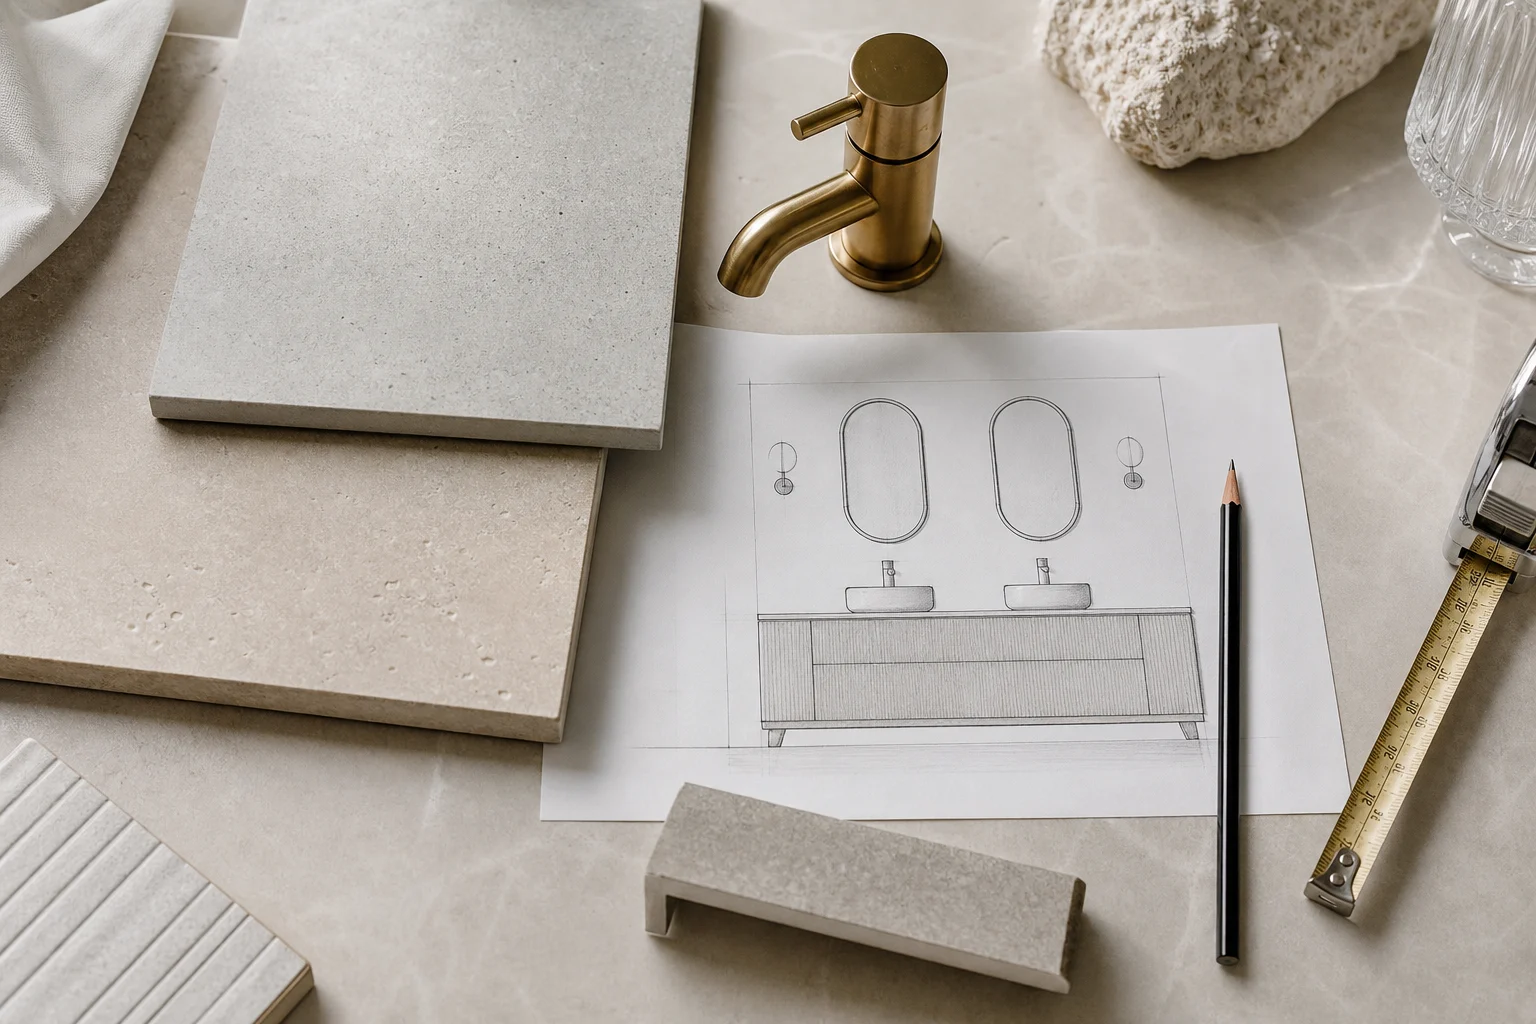
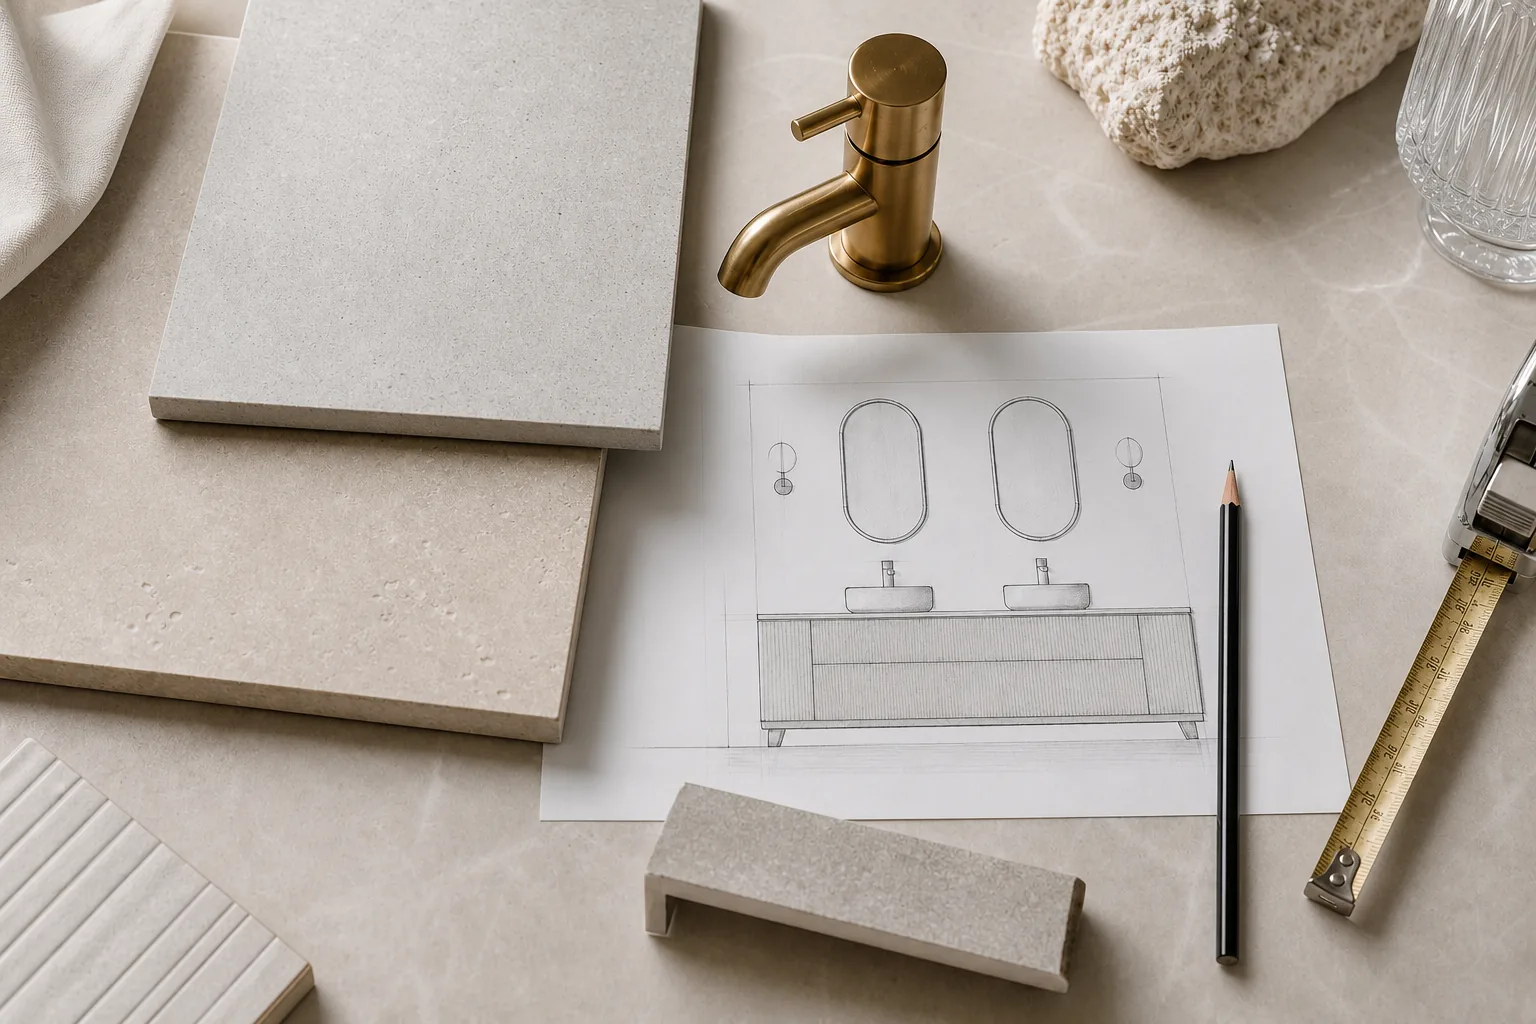
Update service page imagery

diff --git a/large-format-tiling-london/index.html b/large-format-tiling-london/index.html
@@ -207,7 +207,7 @@
     <main id="top">
       <section class="service-hero service-hero--tiling">
         <figure class="service-hero__bg">
-          <img src="../assets/images/services/large-format/large-format-marble-vanity-wall.webp" alt="Large format porcelain wall and vanity surface installation by Artiling Studio" loading="eager" width="1200" height="1600" decoding="async" fetchpriority="high" />
+          <img src="../assets/images/services/large-format/large-format-porcelain-surfaces-hero.webp" alt="Large format porcelain wall and vanity surface installation by Artiling Studio" loading="eager" width="1610" height="977" decoding="async" fetchpriority="high" />
         </figure>
         <div class="container service-hero__grid">
           <div class="service-hero__copy" data-reveal>
@@ -256,15 +256,15 @@
           <div class="section-rule" data-reveal><span>Real Surface Work</span></div>
           <div class="sinks__strip" data-reveal>
             <figure>
-              <img class="sinks__strip-photo" src="../assets/images/services/large-format/large-format-marble-vanity-wall.webp" alt="Large-format marble-effect porcelain vanity wall with matching fabricated sink" width="1200" height="1600" loading="lazy" decoding="async" />
+              <img class="sinks__strip-photo" src="../assets/images/services/large-format/large-format-marble-vanity-wall-gallery.webp" alt="Large-format marble-effect porcelain vanity wall with matching fabricated sink" width="1086" height="1448" loading="lazy" decoding="async" />
               <figcaption>Vanity Walls</figcaption>
             </figure>
             <figure>
-              <img class="sinks__strip-photo" src="../assets/images/services/large-format/large-format-grey-wet-room-detail.webp" alt="Grey large-format porcelain wet room wall with precise cuts around wall-mounted brassware" width="1200" height="1600" loading="lazy" decoding="async" />
+              <img class="sinks__strip-photo" src="../assets/images/services/large-format/large-format-grey-wet-room-planes.webp" alt="Grey large-format porcelain wet room wall with precise cuts around wall-mounted brassware" width="1086" height="1448" loading="lazy" decoding="async" />
               <figcaption>Wet Room Planes</figcaption>
             </figure>
             <figure>
-              <img class="sinks__strip-photo" src="../assets/images/services/large-format/large-format-floating-marble-wall.webp" alt="Large-format marble-effect porcelain bathroom wall with floating sink and brass taps" width="1200" height="1600" loading="lazy" decoding="async" />
+              <img class="sinks__strip-photo" src="../assets/images/services/large-format/large-format-marble-feature-surface.webp" alt="Large-format marble-effect porcelain bathroom wall with floating sink and brass taps" width="1086" height="1448" loading="lazy" decoding="async" />
               <figcaption>Feature Surfaces</figcaption>
             </figure>
           </div>
@@ -337,7 +337,7 @@
           <ul class="service-editorial-grid service-editorial-grid--compact">
             <li class="service-editorial-card" data-reveal>
               <figure class="service-editorial-card__media">
-                <img src="../assets/images/services/large-format/large-format-marble-vanity-wall.webp" alt="Large-format porcelain bathroom wall and vanity surface" loading="lazy" width="1200" height="1600" decoding="async" />
+                <img src="../assets/images/services/large-format/large-format-marble-bathroom-walls-floors.webp" alt="Large-format porcelain bathroom wall and vanity surface" loading="lazy" width="1086" height="1448" decoding="async" />
               </figure>
               <span class="service-card__num">01</span>
               <h2>Bathroom walls and floors</h2>
@@ -345,7 +345,7 @@
             </li>
             <li class="service-editorial-card" data-reveal data-reveal-delay="70">
               <figure class="service-editorial-card__media">
-                <img src="../assets/images/services/large-format/large-format-grey-wet-room-detail.webp" alt="Large-format porcelain wet room surface with precise wall cuts" loading="lazy" width="1200" height="1600" decoding="async" />
+                <img src="../assets/images/services/large-format/large-format-grey-wet-room-detail-clean.webp" alt="Large-format porcelain wet room surface with precise wall cuts" loading="lazy" width="1086" height="1448" decoding="async" />
               </figure>
               <span class="service-card__num">02</span>
               <h2>Wet room surfaces</h2>
@@ -353,7 +353,7 @@
             </li>
             <li class="service-editorial-card" data-reveal data-reveal-delay="140">
               <figure class="service-editorial-card__media">
-                <img src="../assets/images/services/large-format/large-format-travertine-bathroom.webp" alt="Large-format porcelain vanity area with mirrored wall and aligned surface detailing" loading="lazy" width="1200" height="1600" decoding="async" />
+                <img src="../assets/images/services/large-format/large-format-travertine-vanity-area.webp" alt="Large-format porcelain vanity area with mirrored wall and aligned surface detailing" loading="lazy" width="1086" height="1448" decoding="async" />
               </figure>
               <span class="service-card__num">03</span>
               <h2>Vanity and sink areas</h2>
@@ -361,7 +361,7 @@
             </li>
             <li class="service-editorial-card" data-reveal data-reveal-delay="210">
               <figure class="service-editorial-card__media">
-                <img src="../assets/images/services/large-format/large-format-green-feature-wall.webp" alt="Green large-format porcelain feature wall and matching fabricated surface" loading="lazy" width="1200" height="1600" decoding="async" />
+                <img src="../assets/images/services/large-format/large-format-green-porcelain-feature-wall.webp" alt="Green large-format porcelain feature wall and matching fabricated surface" loading="lazy" width="1086" height="1448" decoding="async" />
               </figure>
               <span class="service-card__num">04</span>
               <h2>Feature walls</h2>
@@ -404,7 +404,7 @@
           <div class="section-rule" data-reveal><span>02 — Installation Detail</span></div>
           <div class="service-feature-row service-feature-row--install-detail">
             <figure class="sinks__visual sinks__visual--wide" data-reveal>
-              <img class="sinks__photo" src="../assets/images/services/large-format/large-format-slab-wall-install.webp" alt="Large-format porcelain slab wall installation with continuous surface alignment" width="1200" height="675" decoding="async" loading="lazy" />
+              <img class="sinks__photo" src="../assets/images/services/large-format/large-format-slab-wall-install-detail.webp" alt="Large-format porcelain slab wall installation with continuous surface alignment" width="1448" height="1086" decoding="async" loading="lazy" />
               <figcaption><span>01</span> Edge · Alignment · Finish</figcaption>
             </figure>
             <div class="sinks__text" data-reveal data-reveal-delay="90">

diff --git a/bespoke-porcelain-sinks/index.html b/bespoke-porcelain-sinks/index.html
@@ -202,7 +202,7 @@
     <main id="top">
       <section class="service-hero service-hero--sinks">
         <figure class="service-hero__bg">
-          <img src="../assets/images/services/bespoke-sinks/tanis-floating-trough-grey.webp" alt="Floating bespoke porcelain trough sink by Artiling Studio" width="1200" height="1600" loading="eager" fetchpriority="high" decoding="async" />
+          <img src="../assets/images/services/bespoke-sinks/bespoke-porcelain-floating-trough-grey.webp" alt="Floating bespoke porcelain trough sink by Artiling Studio" width="1086" height="1448" loading="eager" fetchpriority="high" decoding="async" />
         </figure>
         <div class="container service-hero__grid">
           <div class="service-hero__copy" data-reveal>
@@ -251,7 +251,7 @@
           <div class="section-rule" data-reveal><span>Designed into the room</span></div>
           <div class="service-feature-row service-feature-row--media-text">
             <figure class="sinks__visual sinks__visual--tall" data-reveal>
-              <img class="sinks__photo" src="../assets/images/services/bespoke-sinks/tanis-floating-trough-grey.webp" alt="Floating bespoke porcelain trough sink with wall-mounted tap and mitred apron" width="1200" height="1600" decoding="async" loading="lazy" />
+              <img class="sinks__photo" src="../assets/images/services/bespoke-sinks/bespoke-porcelain-floating-trough-grey.webp" alt="Floating bespoke porcelain trough sink with wall-mounted tap and mitred apron" width="1086" height="1448" decoding="async" loading="lazy" />
               <figcaption><span>01</span> Floating Trough Sink</figcaption>
             </figure>
             <div class="sinks__text" data-reveal data-reveal-delay="90">
@@ -280,7 +280,7 @@
         <div class="container">
           <div class="service-feature-row service-feature-row--media-text">
             <figure class="sinks__visual sinks__visual--wide" data-reveal>
-              <img class="sinks__photo" src="../assets/images/services/bespoke-sinks/tanis-trough-basin-detail-grey.webp" alt="Close-up of a floating porcelain trough sink with mitred corner and linear basin channel" width="1200" height="900" decoding="async" loading="lazy" />
+              <img class="sinks__photo" src="../assets/images/services/bespoke-sinks/bespoke-porcelain-trough-basin-detail-grey.webp" alt="Close-up of a floating porcelain trough sink with mitred corner and linear basin channel" width="1448" height="1086" decoding="async" loading="lazy" />
               <figcaption><span>02</span> Mitred Trough Detail</figcaption>
             </figure>
             <div class="sinks__text service-intro__copy" data-reveal data-reveal-delay="90">
@@ -304,7 +304,7 @@
         <div class="container">
           <div class="service-feature-row service-feature-row--media-text">
             <figure class="sinks__visual sinks__visual--wide" data-reveal>
-              <img class="sinks__photo" src="../assets/images/services/bespoke-sinks/tanis-double-porcelain-sink.webp" alt="Wall-mounted double porcelain vanity top with integrated basins and matching splashback" width="1600" height="1200" decoding="async" loading="lazy" />
+              <img class="sinks__photo" src="../assets/images/services/bespoke-sinks/bespoke-double-porcelain-vanity-sink.webp" alt="Wall-mounted double porcelain vanity top with integrated basins and matching splashback" width="1448" height="1086" decoding="async" loading="lazy" />
               <figcaption><span>03</span> Vanity Top Composition</figcaption>
             </figure>
             <div class="sinks__text service-intro__copy" data-reveal data-reveal-delay="90">
@@ -427,11 +427,11 @@
               <figcaption>Planning &amp; Finish</figcaption>
             </figure>
             <figure>
-              <img class="sinks__strip-photo" src="../assets/images/services/bespoke-sinks/tanis-trough-basin-detail-grey.webp" alt="Close-up of a mitred porcelain trough sink edge and integrated channel detail" width="1200" height="900" loading="lazy" decoding="async" />
+              <img class="sinks__strip-photo" src="../assets/images/services/bespoke-sinks/bespoke-porcelain-trough-basin-detail-grey.webp" alt="Close-up of a mitred porcelain trough sink edge and integrated channel detail" width="1448" height="1086" loading="lazy" decoding="async" />
               <figcaption>Mitred Edge</figcaption>
             </figure>
             <figure>
-              <img class="sinks__strip-photo" src="../assets/images/services/bespoke-sinks/tanis-floating-marble-trough.webp" alt="Integrated floating porcelain trough sink with wall-mounted brassware and matching surface returns" width="1200" height="1600" loading="lazy" decoding="async" />
+              <img class="sinks__strip-photo" src="../assets/images/services/bespoke-sinks/integrated-marble-porcelain-trough-sink.webp" alt="Integrated floating porcelain trough sink with wall-mounted brassware and matching surface returns" width="1086" height="1448" loading="lazy" decoding="async" />
               <figcaption>Integrated Detail</figcaption>
             </figure>
           </div>
